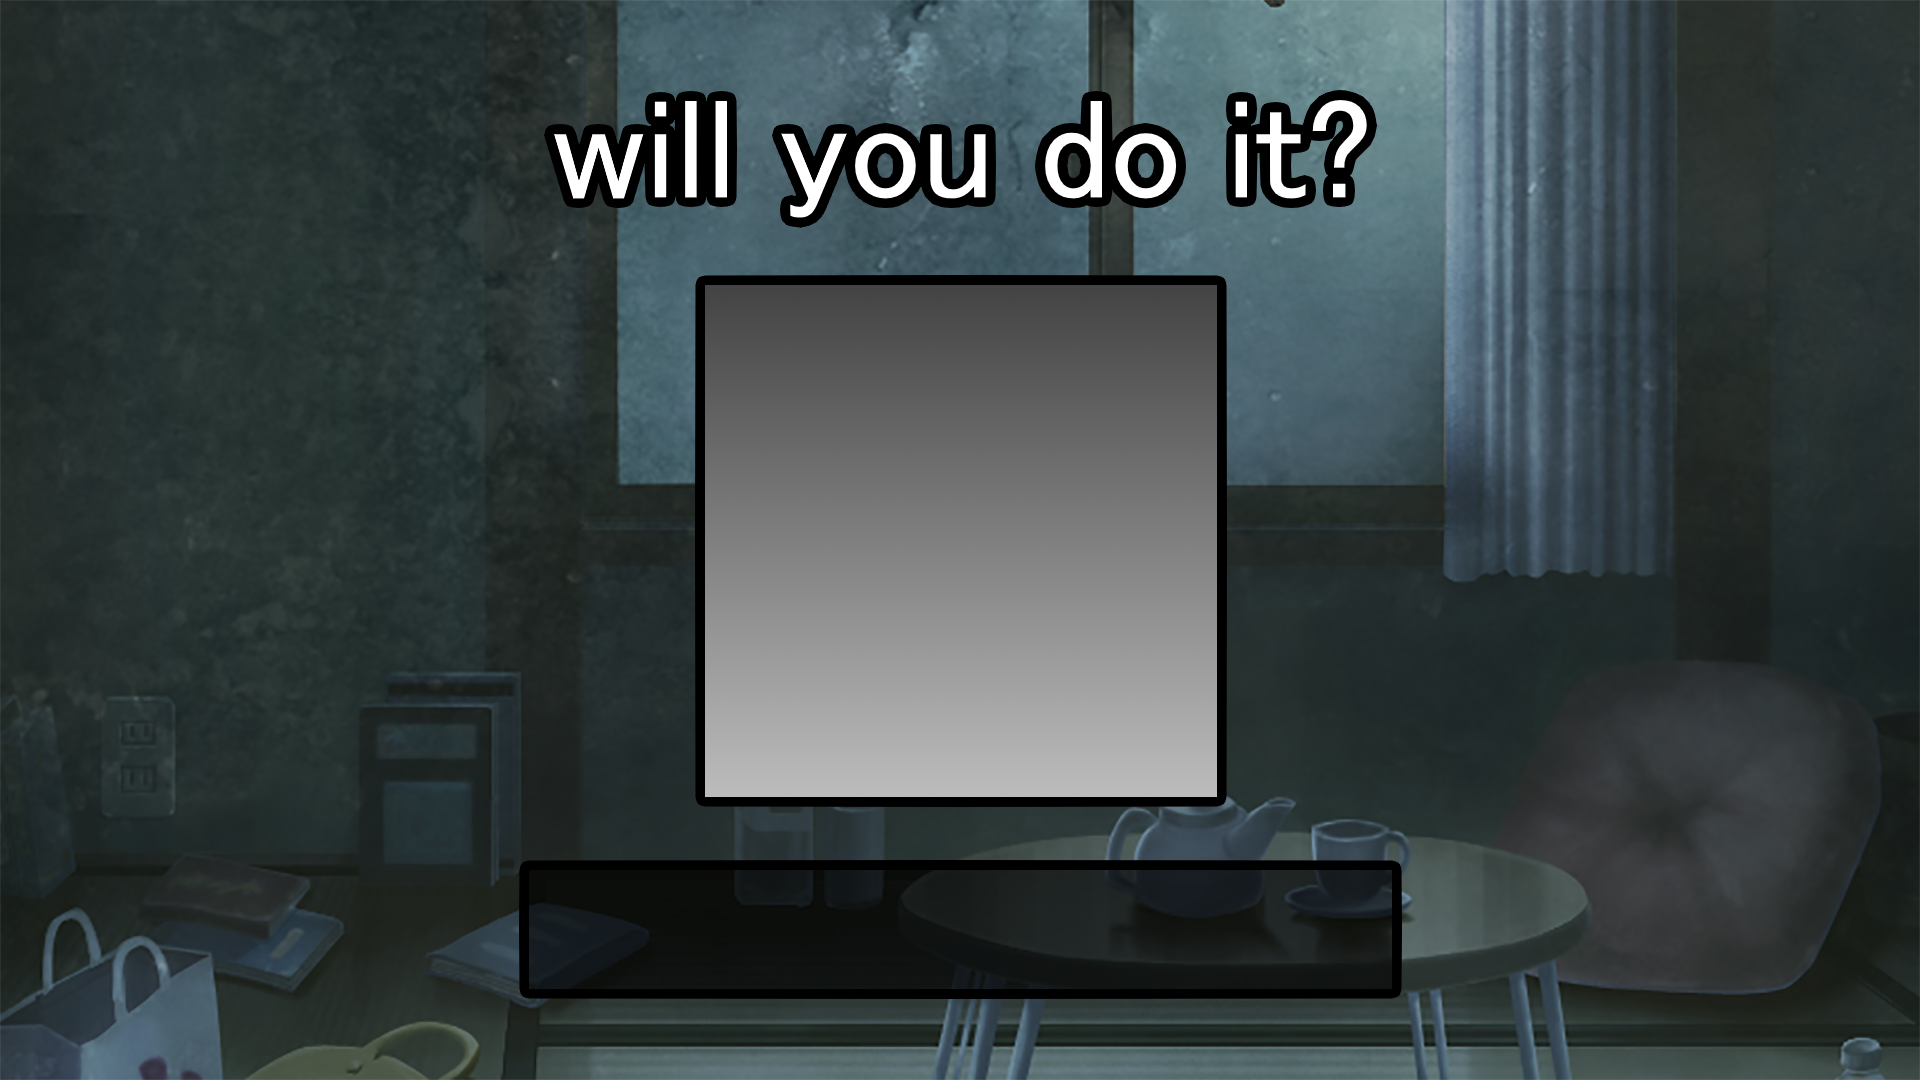
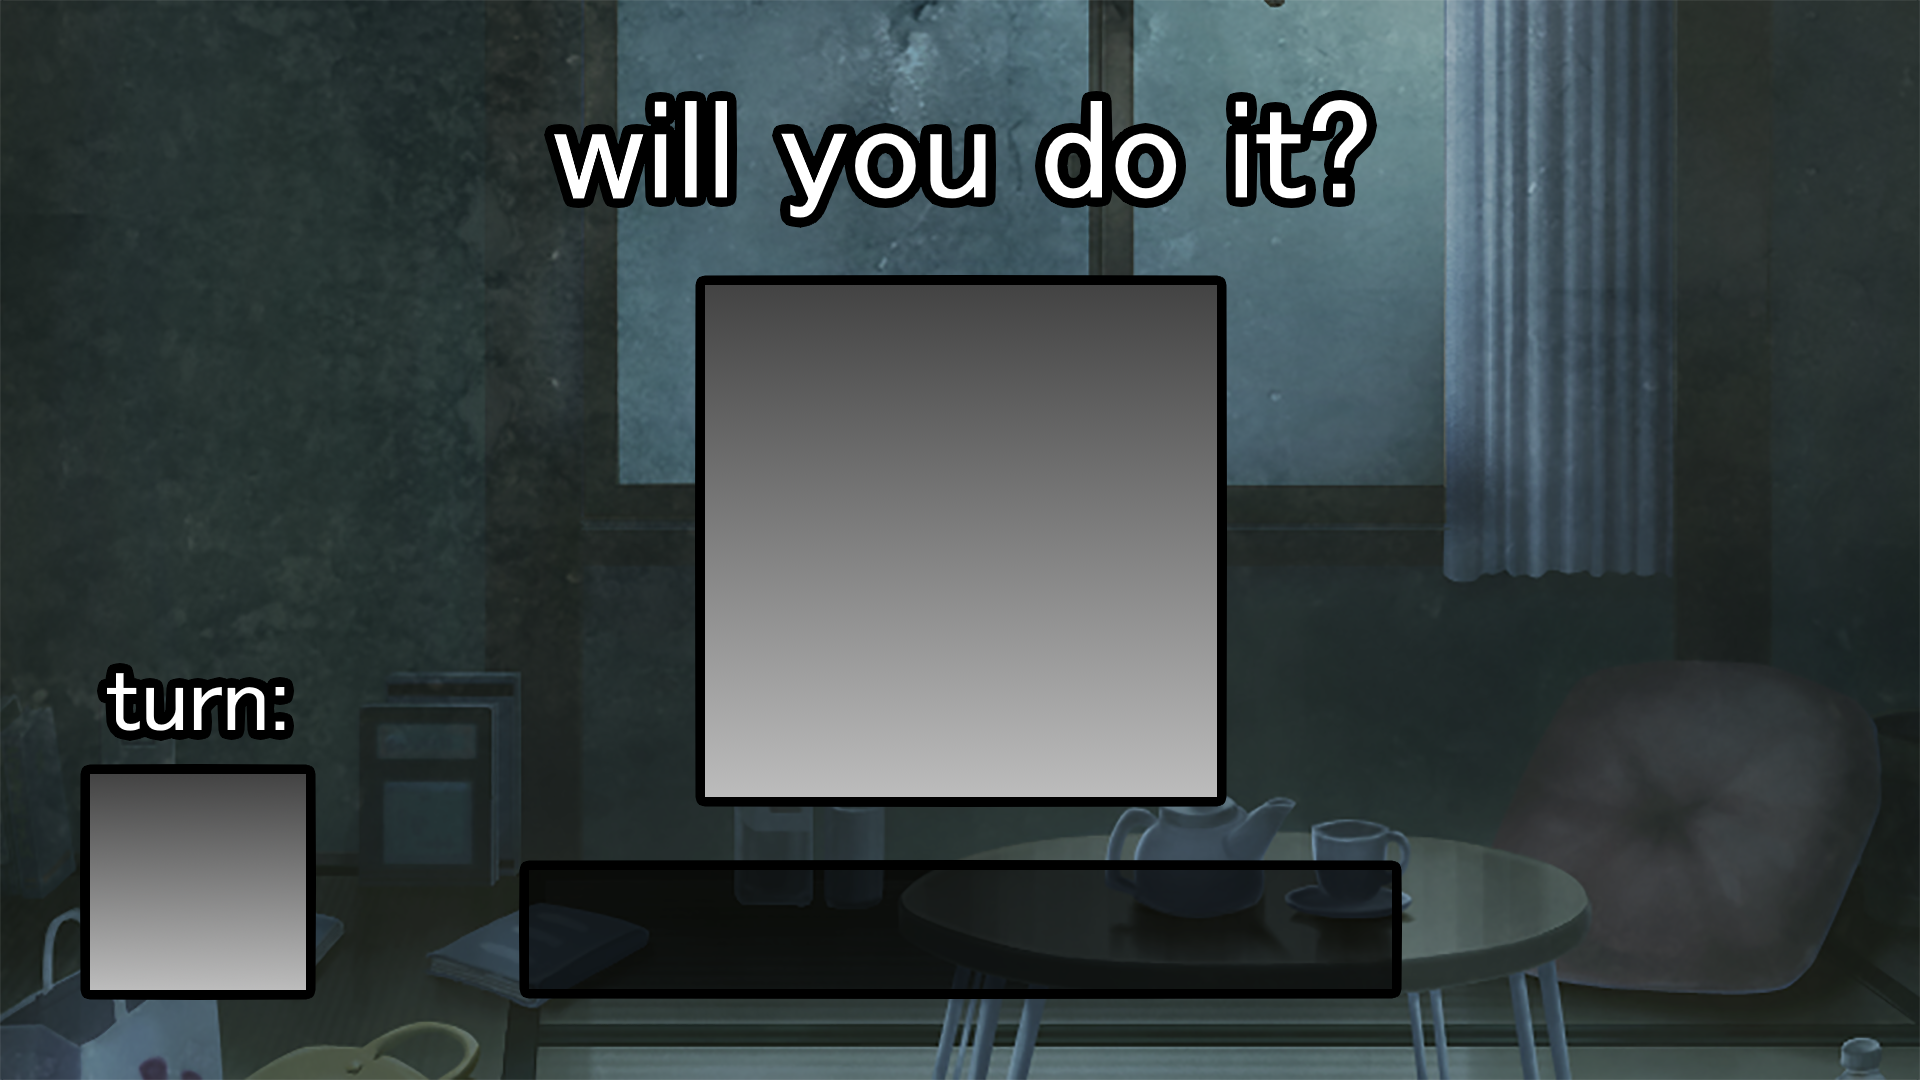
feat: /russian now shows pfp of turn user

Changed region(s): [[0.0312, 0.6111, 0.1875, 0.9472]]

diff --git a/src/commands/russian.ts b/src/commands/russian.ts
@@ -128,6 +128,7 @@ async function handleConsentPhase(
 async function createRussianImage(
   targetUser: User,
   targetName: string,
+  currentTurnUser: User,
   filter: "none" | "bw" | "red" = "none",
 ): Promise<Buffer> {
   const canvas = createCanvas(1920, 1080);
@@ -157,7 +158,7 @@ async function createRussianImage(
     ctx.fillStyle = "#333";
     ctx.fillRect(0, 0, 1920, 1080);
     ctx.fillStyle = "#FFF";
-    ctx.font = "bold 100px Arial";
+    ctx.font = "bold 100px Arial, sans-serif";
     ctx.textAlign = "center";
     ctx.fillText("RUSSIAN ROULETTE", 960, 540);
   }
@@ -173,10 +174,19 @@ async function createRussianImage(
     ctx.drawImage(avatar, x, y, avatarSize, avatarSize);
 
     ctx.fillStyle = "#FFFFFF";
-    ctx.font = "bold 60px Verdana";
+    ctx.font = "bold 60px Verdana, sans-serif";
     ctx.textAlign = "center";
 
     ctx.fillText(targetName, 960, y + avatarSize + 155);
+
+    const turnAvatar = await loadImage(
+      currentTurnUser.displayAvatarURL({ extension: "png", size: 256 }),
+    );
+    const turnAvatarSize = 216;
+    const turnX = 90;
+    const turnY = 1080 - turnAvatarSize - 90;
+
+    ctx.drawImage(turnAvatar, turnX, turnY, turnAvatarSize, turnAvatarSize);
 
     if (filter !== "none") {
       const imageData = ctx.getImageData(0, 0, 1920, 1080);
@@ -351,6 +361,7 @@ export async function execute(
     const imageBuffer = await createRussianImage(
       target,
       target.username,
+      currentTurnUser,
       filter,
     );
     const attachment = new AttachmentBuilder(imageBuffer, {
